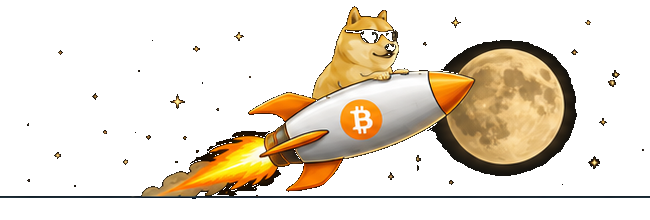
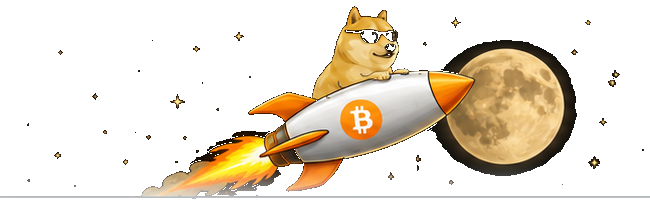
Add files via upload

diff --git a/index.html b/index.html
@@ -1,6 +1,6 @@
 <!doctype html>
 <html lang="en"><head><meta charset="utf-8"><meta name="viewport" content="width=device-width,initial-scale=1,viewport-fit=cover">
-<title>Di4m0ndH4nd5 Risk Dashboard V40</title>
+<title>Di4m0ndH4nd5 Risk Dashboard V41</title>
 <style>
 :root{--bg:#070b0f;--panel:#0d1319;--line:#1d2b35;--cyan:#00e5ff;--text:#f4f7fa;--muted:#8c9aa6;--green:#00e676;--yellow:#f3d63a;--orange:#ff9f0a;--red:#ff453a}
 *{box-sizing:border-box}body{margin:0;background:radial-gradient(circle at 50% -10%,#10212b 0,#070b0f 42%);color:var(--text);font-family:Inter,Arial,sans-serif}.wrap{max-width:1180px;margin:auto;padding:12px}.panel{background:linear-gradient(180deg,#0e151c,#0a1015);border:1px solid #17242d;border-radius:12px;padding:12px;margin-bottom:10px;box-shadow:0 8px 28px #0007}.head{display:grid;grid-template-columns:1fr auto 1fr;align-items:start;gap:10px}.title h1{font-size:24px;margin:2px 0}.title h2{font-size:12px;margin:0;color:#c8d2da;letter-spacing:.08em}.version{display:block;width:max-content;margin-top:5px;border:1px solid #30404b;border-radius:6px;padding:3px 7px;font-size:10px}.rocket{width:250px;max-height:100px;object-fit:contain}.status{text-align:right;font-size:10px;color:#9dabb6;line-height:1.55}.health{display:inline-flex;gap:6px;align-items:center;color:#fff;font-weight:800}.dot{width:8px;height:8px;border-radius:50%;background:var(--green);box-shadow:0 0 8px var(--green)}.notice{margin-top:9px;border:1px solid #8c6c18;background:#171306;border-radius:6px;padding:6px;text-align:center;font-size:10px;font-weight:900;letter-spacing:.06em}.scale{height:8px;border-radius:9px;background:linear-gradient(90deg,#00c853,#cddc39,#ffc107,#ff6d00,#e53935);margin:12px 0 4px}.ticks{display:flex;justify-content:space-between;font-size:9px;color:#7e8b95}.stats{display:grid;grid-template-columns:repeat(6,1fr);gap:8px}.stat{border:1px solid #1a2832;background:#0b1116;border-radius:8px;padding:8px;text-align:center}.stat small{font-size:8px;color:#84939f}.stat b{display:block;font-size:22px;margin:2px}.opps{display:grid;grid-template-columns:1fr 1fr;gap:8px;margin-top:8px}.opp{border:1px solid #1b2b35;border-radius:8px;padding:8px;font-size:10px}.opp b{font-size:13px}.toolbar{display:flex;justify-content:space-between;align-items:center;margin:4px 0 8px}.toolbar strong{font-size:12px}.sortbtn{background:#0b171e;color:#d8f9ff;border:1px solid #24404c;border-radius:7px;padding:6px 9px;font-size:9px;font-weight:800}table{width:100%;border-collapse:collapse;table-layout:fixed}th{font-size:8px;color:#82919c;text-align:center;padding:8px 5px;border-bottom:1px solid #1b2831}th:first-child{text-align:left;width:30%}td{padding:9px 5px;border-bottom:1px solid #142029;text-align:center;font-size:10px}.group td{background:#0b1b23;color:#00d9ff;text-align:left;font-size:9px;font-weight:900;letter-spacing:.06em;padding:5px 8px}.assetcell{display:flex;align-items:center;gap:7px;text-align:left}.logoBox{width:30px;height:30px;border-radius:50%;background:#eef2f4;display:flex;align-items:center;justify-content:center;overflow:hidden;flex:0 0 auto;padding:4px}.logoBox img{width:100%;height:100%;object-fit:contain;border-radius:10px;padding:1px}.fallback{font-size:7px;color:#111;font-weight:900}.asset{font-weight:850;font-size:11px}.ticker{font-size:8px;color:#74838f}.price{font-weight:800}.live{color:var(--green);font-size:8px;margin-right:3px}.score{font-size:13px;font-weight:900}.badge{display:inline-block;border-radius:5px;padding:3px 6px;font-size:8px;font-weight:900;white-space:nowrap}.low{color:#16ef78;background:#063d25}.moderate{color:#f3df42;background:#443b08}.high{color:#ffb13b;background:#482c05}.extreme{color:#ff5a50;background:#4a1210}.rsiLow{color:#2ee879}.rsiMid{color:#f0db3a}.rsiHigh{color:#ff5147}.fav{cursor:pointer;color:#53636e;margin-right:4px}.fav.on{color:#ffd54a}.detail td{padding:0;border-bottom:1px solid #20303a}.detailbox{display:grid;grid-template-columns:1fr 1fr;gap:8px;background:#080d11;padding:10px}.gaugewrap{text-align:center}.gaugeTitle{font-size:9px;color:#b7c2ca;font-weight:900}.gauge{width:150px;height:82px;position:relative;margin:5px auto 0;overflow:hidden}.arc{width:150px;height:150px;border-radius:50%;background:conic-gradient(from 270deg,#00c853 0 12.5%,#f3d63a 12.5% 25%,#ff9f0a 25% 37.5%,#ff3b30 37.5% 50%,transparent 50% 100%);position:absolute;top:7px}.arc:after{content:"";position:absolute;inset:18px;border-radius:50%;background:#080d11}.needle{position:absolute;width:2px;height:57px;background:#fff;left:74px;top:19px;transform-origin:50% 100%;z-index:2;box-shadow:0 0 5px #fff}.hub{position:absolute;width:8px;height:8px;border-radius:50%;background:#fff;left:71px;bottom:1px;z-index:3}.gscore{font-size:24px;font-weight:950;margin-top:0}.mini{width:100%;border-collapse:collapse}.mini td{padding:4px;border-bottom:1px solid #18252e;font-size:9px}.mini td:first-child{text-align:left;color:#84929d}.mini td:last-child{text-align:right;font-weight:850}.note{font-size:9px;line-height:1.55;color:#82909a;padding:10px 2px 2px}.stale{color:#ff9f0a;font-size:7px;font-weight:900}.market{font-size:7px;color:#75838d}.age{color:#8c9aa6}
@@ -106,9 +106,90 @@
   tbody tr:not(.detail) td:last-child .badge{font-size:7px!important;padding:4px 3px!important}
 }
 
+
+/* V41 refinements */
+.rocketWrap{isolation:isolate}
+.rocket{
+  -webkit-mask-image:linear-gradient(to bottom,#000 0%,#000 78%,rgba(0,0,0,.88) 86%,rgba(0,0,0,.35) 95%,transparent 100%);
+  mask-image:linear-gradient(to bottom,#000 0%,#000 78%,rgba(0,0,0,.88) 86%,rgba(0,0,0,.35) 95%,transparent 100%);
+}
+.confidenceBadge{
+  display:inline-block;
+  padding:2px 5px;
+  border:1px solid #5b426f;
+  border-radius:5px;
+  background:#1b1026;
+  color:#d7b7ff;
+  font-size:7px;
+  font-weight:900;
+  letter-spacing:.04em;
+}
+.telescopeCard{display:grid;grid-template-columns:1fr;align-content:start}
+.telescopeCard .telMetrics{
+  display:grid;
+  grid-template-columns:1fr 1fr;
+  gap:8px;
+  width:100%;
+  margin:2px 0 6px;
+}
+.telescopeCard .metric{
+  display:flex;
+  flex-direction:column;
+  align-items:center;
+  justify-content:center;
+  min-width:0;
+  padding:5px 6px;
+  border:1px solid #182a35;
+  background:#091015;
+  border-radius:7px;
+  font-size:18px;
+  line-height:1.05;
+}
+.telescopeCard .metric small{
+  margin:0 0 3px;
+  font-size:7px;
+  letter-spacing:.08em;
+}
+.telescopeCard .sliderTrack{width:100%;height:16px;margin-top:4px}
+.telescopeCard .riskSlider{width:100%;margin-top:4px}
+.group td{
+  padding-left:12px!important;
+  text-indent:0!important;
+  overflow:visible!important;
+}
+@media(max-width:700px){
+  .group td{
+    padding-left:10px!important;
+    padding-right:8px!important;
+    font-size:8.5px!important;
+  }
+  /* Give Future Telescope the full dropdown width first, then Crystal Ball below it.
+     This makes the interactive scale materially easier to use on a phone. */
+  .futurePair{grid-template-columns:1fr!important;gap:7px!important}
+  .telescopeCard{grid-column:1/-1}
+  .crystalCard{grid-column:1/-1}
+  .telescopeCard .telMetrics{
+    grid-template-columns:1fr 1fr;
+    gap:6px;
+  }
+  .telescopeCard .metric{
+    font-size:17px;
+    padding:6px 5px;
+  }
+  .telescopeCard .sliderTrack{height:18px}
+  .telescopeCard .currentMark{top:-3px;height:24px}
+  .telescopeCard .riskSlider{height:24px;margin:4px 0 0}
+  .sliderEnds{font-size:7px}
+  .crystalTable td{font-size:8.2px;padding:5px 3px}
+}
+@media(max-width:390px){
+  .group td{padding-left:9px!important}
+  .telescopeCard .metric{font-size:16px}
+}
+
 </style></head><body><div class="wrap">
 <section class="panel"><div class="head">
-<div class="title"><div class="brandline"><img src="icon-180.png" class="diamond-logo" alt="Diamond hands logo"><div><h1>Di4m0ndH4nd5</h1><h2>RISK DASHBOARD</h2><span class="version">V40</span></div></div></div>
+<div class="title"><div class="brandline"><img src="icon-180.png" class="diamond-logo" alt="Diamond hands logo"><div><h1>Di4m0ndH4nd5</h1><h2>RISK DASHBOARD</h2><span class="version">V41</span></div></div></div>
 <div class="rocketWrap"><img class="rocket rocket-lower" src="doge-bitcoin-rocket.png" alt="Doge riding a Bitcoin rocket"></div>
 <div class="status"><div class="health"><span class="dot" id="healthDot"></span><span id="health">CHECKING</span></div><br><span id="updated">Loading…</span><br><span class="age" id="age"></span></div>
 </div><div class="notice"><img src="doge.png" class="notice-doge" alt="Doge"><span>NOT FINANCIAL ADVICE #HODL</span></div><div class="scale"></div><div class="ticks"><span>0.00</span><span>0.20</span><span>0.45</span><span>0.55</span><span>0.75</span><span>1.00</span></div></section>
@@ -128,10 +209,10 @@ function logo(a){
  return domains[a.ticker]?"https://www.google.com/s2/favicons?domain="+domains[a.ticker]+"&sz=128":"";
 }
 function portrait(a){
- const people={META:"asset-icons/META_LASER_V40.png",AMZN:"asset-icons/AMZN_LASER_V40.png",TSLA:"asset-icons/TSLA_LASER_V40.png",MSFT:"asset-icons/MSFT_LASER_V40.png",MSTR:"asset-icons/MSTR_LASER_V40.png"};
+ const people={META:"asset-icons/META_LASER_V41.png",AMZN:"asset-icons/AMZN_LASER_V41.png",TSLA:"asset-icons/TSLA_LASER_V41.png",MSFT:"asset-icons/MSFT_LASER_V41.png",MSTR:"asset-icons/MSTR_LASER_V41.png"};
  return people[a.ticker]||null;
 }
-function logoHTML(a){let face=portrait(a);if(face)return `<span class="logoBox person ${a.ticker.toLowerCase()}"><img src="${face}" alt="${a.name} laser-eye portrait"></span>`;if(a.ticker==="DOGE")return `<span class="logoBox dogeLaser"><img src="asset-icons/DOGE_LASER_V40.png" alt="Dogecoin laser eyes"></span>`;let src=logo(a);if(src&&src.startsWith("emoji:"))return `<span class="logoBox" style="font-size:20px;padding:0;background:#eef2f4">${src.slice(6)}</span>`;let cls=a.ticker==="KO"?" ko":a.ticker==="BA."?" bae":a.ticker==="RR."?" rr":a.ticker==="LLY"?" lly":"";return `<span class="logoBox${cls}"><img src="${src}" onerror="this.style.display='none';this.nextElementSibling.style.display='block'"><span class="fallback" style="display:none">${a.ticker}</span></span>`}
+function logoHTML(a){let face=portrait(a);if(face)return `<span class="logoBox person ${a.ticker.toLowerCase()}"><img src="${face}" alt="${a.name} laser-eye portrait"></span>`;if(a.ticker==="DOGE")return `<span class="logoBox dogeLaser"><img src="asset-icons/DOGE_LASER_V41.png" alt="Dogecoin laser eyes"></span>`;let src=logo(a);if(src&&src.startsWith("emoji:"))return `<span class="logoBox" style="font-size:20px;padding:0;background:#eef2f4">${src.slice(6)}</span>`;let cls=a.ticker==="KO"?" ko":a.ticker==="BA."?" bae":a.ticker==="RR."?" rr":a.ticker==="LLY"?" lly":"";return `<span class="logoBox${cls}"><img src="${src}" onerror="this.style.display='none';this.nextElementSibling.style.display='block'"><span class="fallback" style="display:none">${a.ticker}</span></span>`}
 function price(a,p){if(p==null)return"—";let symbol=(a.yf.endsWith(".L")||a.ticker==="UKX")?"£":"$";let v=p;if(a.yf==="HG=F"){v=p/14.5833333333;return"$"+v.toLocaleString("en-US",{minimumFractionDigits:3,maximumFractionDigits:3})}if(["GC=F","SI=F","PA=F"].includes(a.yf))return"$"+p.toLocaleString("en-US",{maximumFractionDigits:p>=1000?0:2,minimumFractionDigits:p>=1000?0:2});if(a.yf.endsWith(".L"))v=p/100;let d=v>=1000?0:(v<1?4:2);return symbol+v.toLocaleString(symbol==="£"?"en-GB":"en-US",{minimumFractionDigits:d,maximumFractionDigits:d})}
 function ago(){if(!data.updated)return"";let m=Math.max(0,Math.floor((Date.now()-new Date(data.updated))/60000));return m<1?"just now":m+" min ago"}
 function stale(a){if(!data.updated)return true;let age=(Date.now()-new Date(data.updated))/60000;return age>25}
@@ -146,7 +227,7 @@ function render(){
  list.forEach(a=>{let r=data.risks?.[a.yf]??.5,z=zone(r),l=level(r),c=data.components?.[a.yf]||{},p=data.prices?.[a.yf],chg=c.change24h,rsi=c.rsi14;
    if(!sortRisk&&a.type!==group){group=a.type;out+=`<tr class="group"><td colspan="6">${group==="Metals"?"METALS — PRICE PER OZ":group.toUpperCase()}</td></tr>`}
    out+=`<tr onclick="toggleRow('${a.ticker}')"><td><div class="assetcell">${logoHTML(a)}<div><div class="asset">${a.name}</div><div class="ticker">${a.ticker}</div></div></div></td><td class="price"><span class="live">●</span>${price(a,p)} ${stale(a)?'<span class="stale">STALE</span>':''}</td><td class="${rsi==null?'':rsi<30?'rsiLow':rsi>70?'rsiHigh':'rsiMid'}">${rsi==null?'—':rsi.toFixed(1)}</td><td><div class="score">${r.toFixed(2)}</div><span class="badge ${l[1]}">${l[0]}</span></td><td class="crystal">${c.crystal_target==null?'—':price(a,c.crystal_target)}</td><td><span class="badge ${z[1]}">${z[0]}</span></td></tr>`;
-   if(openRow===a.ticker){let telNow=telescopeEstimate(a,r);out+=`<tr class="detail"><td colspan="6"><div class="detailbox"><div class="gaugewrap"><div class="gaugeTitle">CURRENT ${a.ticker} RISK · LIVE</div>${gauge(r)}</div><div class="detailInfo"><div class="futurePair"><div class="futureCard telescopeCard" onclick="event.stopPropagation()"><div class="futureTitle">🔭 FUTURE TELESCOPE</div><div class="telMetrics"><span class="metric" id="telPrice-${a.ticker}">${telNow==null?'—':price(a,telNow)}</span><span class="metric"><small>RISK</small><span id="telRisk-${a.ticker}">${r.toFixed(2)}</span></span></div><div class="sliderTrack" onpointerdown="trackRisk(event,'${a.ticker}')" onpointermove="if(event.buttons)trackRisk(event,'${a.ticker}')"><span id="telMark-${a.ticker}" class="currentMark" style="left:calc(${(r*100).toFixed(1)}% - 2px)"></span></div><input id="telSlider-${a.ticker}" class="riskSlider" type="range" min="0" max="1" step="0.01" value="${r.toFixed(2)}" aria-label="Future Telescope risk level for ${a.name}" oninput="event.stopPropagation();updateTelescope('${a.ticker}',this.value)" onclick="event.stopPropagation()"><div class="sliderEnds"><span>0.00 LOW</span><span>1.00 HIGH</span></div></div><div class="futureCard crystalCard"><div class="futureTitle">🔮 CRYSTAL BALL</div><div class="futureValue">${c.crystal_target==null?'—':price(a,c.crystal_target)}</div><table class="crystalTable"><tr><td>🎯 Forecast</td><td>${c.crystal_target==null?'—':price(a,c.crystal_target)}</td></tr><tr><td>📈 Potential</td><td>${c.crystal_target==null||p==null?'—':(((c.crystal_target/p)-1)*100).toFixed(1)+'%'}</td></tr><tr><td>📰 Source</td><td>${c.crystal_basis||c.crystal_source||'—'}</td></tr><tr><td>🕒 Updated</td><td>${c.crystal_updated||'—'}</td></tr></table></div></div><table class="mini"><tr><td>Weekly RSI (14)</td><td>${rsi==null?'—':rsi.toFixed(1)}</td></tr><tr><td>24H</td><td>${chg==null?'—':(chg>=0?'+':'')+chg.toFixed(1)+'%'}</td></tr><tr><td>From ATH</td><td>${c.drawdown_ath==null?'—':c.drawdown_ath.toFixed(1)+'%'}</td></tr><tr><td>Signal</td><td><span class="badge ${z[1]}">${z[0]}</span></td></tr><tr><td>Updated</td><td>${ago()}</td></tr></table></div></div></td></tr>`;}
+   if(openRow===a.ticker){let telNow=telescopeEstimate(a,r);out+=`<tr class="detail"><td colspan="6"><div class="detailbox"><div class="gaugewrap"><div class="gaugeTitle">CURRENT ${a.ticker} RISK · LIVE</div>${gauge(r)}</div><div class="detailInfo"><div class="futurePair"><div class="futureCard telescopeCard" onclick="event.stopPropagation()"><div class="futureTitle">🔭 FUTURE TELESCOPE</div><div class="telMetrics"><span class="metric priceMetric"><small>PRICE</small><span id="telPrice-${a.ticker}">${telNow==null?'—':price(a,telNow)}</span></span><span class="metric riskMetric"><small>RISK</small><span id="telRisk-${a.ticker}">${r.toFixed(2)}</span></span></div><div class="sliderTrack" onpointerdown="trackRisk(event,'${a.ticker}')" onpointermove="if(event.buttons)trackRisk(event,'${a.ticker}')"><span id="telMark-${a.ticker}" class="currentMark" style="left:calc(${(r*100).toFixed(1)}% - 2px)"></span></div><input id="telSlider-${a.ticker}" class="riskSlider" type="range" min="0" max="1" step="0.01" value="${r.toFixed(2)}" aria-label="Future Telescope risk level for ${a.name}" oninput="event.stopPropagation();updateTelescope('${a.ticker}',this.value)" onclick="event.stopPropagation()"><div class="sliderEnds"><span>0.00 LOW</span><span>1.00 HIGH</span></div></div><div class="futureCard crystalCard"><div class="futureTitle">🔮 CRYSTAL BALL</div><div class="futureValue">${c.crystal_target==null?'—':price(a,c.crystal_target)}</div><table class="crystalTable"><tr><td>🔮 Forecast</td><td>${c.crystal_target==null?'—':price(a,c.crystal_target)}</td></tr><tr><td>🔮 Potential</td><td>${c.crystal_target==null||p==null?'—':(((c.crystal_target/p)-1)*100).toFixed(1)+'%'}</td></tr><tr><td>🔮 Source</td><td>${c.crystal_basis||c.crystal_source||'—'}</td></tr><tr><td>🔮 Updated</td><td>${c.crystal_updated||'—'}</td></tr><tr><td>🔮 Confidence</td><td><span class="confidenceBadge">${crystalConfidence(c)}</span></td></tr></table></div></div><table class="mini"><tr><td>Weekly RSI (14)</td><td>${rsi==null?'—':rsi.toFixed(1)}</td></tr><tr><td>24H</td><td>${chg==null?'—':(chg>=0?'+':'')+chg.toFixed(1)+'%'}</td></tr><tr><td>From ATH</td><td>${c.drawdown_ath==null?'—':c.drawdown_ath.toFixed(1)+'%'}</td></tr><tr><td>Signal</td><td><span class="badge ${z[1]}">${z[0]}</span></td></tr><tr><td>Updated</td><td>${ago()}</td></tr></table></div></div></td></tr>`;}
  });
  document.getElementById("rows").innerHTML=out;
  let counts={"STRONG BUY 💎":0,"BUY":0,"#HODL":0,"TRIM":0,"SELL":0};assets.forEach(a=>counts[zone(data.risks?.[a.yf]??.5)[0]]++);

diff --git a/update_prices.py b/update_prices.py
@@ -47,7 +47,7 @@ old={}
 if os.path.exists(DATA):
     try:old=json.load(open(DATA,encoding="utf-8"))
     except:old={}
-out={"prices":dict(old.get("prices",{})),"risks":dict(old.get("risks",{})),"components":dict(old.get("components",{})),"errors":{},"updated":datetime.now(timezone.utc).isoformat(),"last_successful_update":old.get("last_successful_update"),"model_version":"V40"}
+out={"prices":dict(old.get("prices",{})),"risks":dict(old.get("risks",{})),"components":dict(old.get("components",{})),"errors":{},"updated":datetime.now(timezone.utc).isoformat(),"last_successful_update":old.get("last_successful_update"),"model_version":"V41"}
 ok=0
 for a in ASSETS:
     try:p,r,c=calc(a);out["prices"][a["yf"]]=p;out["risks"][a["yf"]]=r;out["components"][a["yf"]]=c;ok+=1
